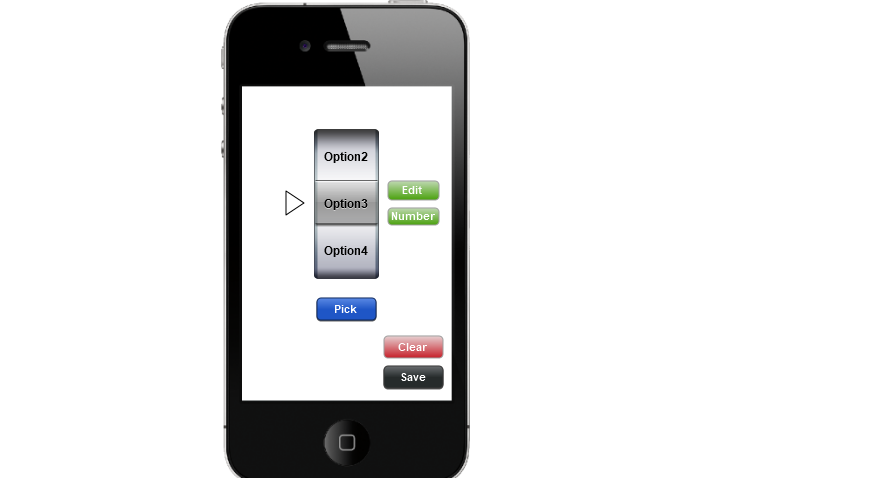
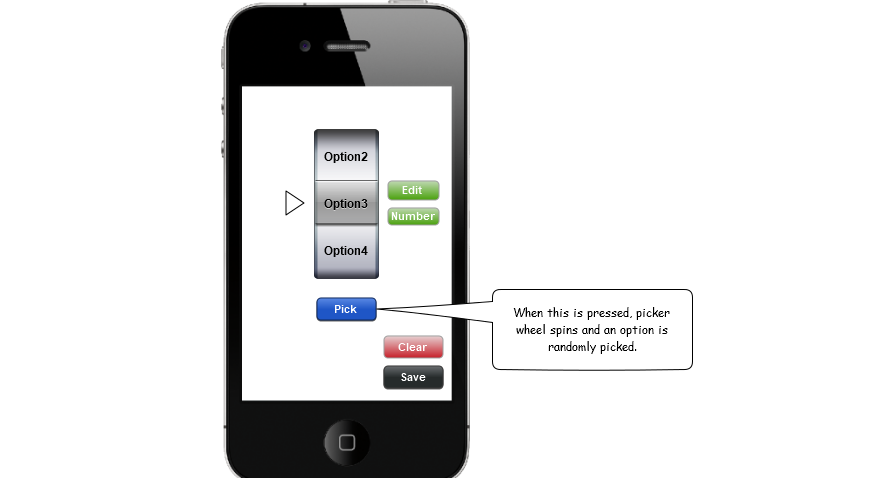
add mockup

Changed region(s): [[0.5863, 0.6444, 0.7714, 0.7322], [0.5554, 0.7615, 0.7714, 0.7908], [0.432, 0.6151, 0.5554, 0.6736]]

diff --git a/docs/index.html b/docs/index.html
@@ -1,1 +1,1 @@
-<html xmlns="http://www.w3.org/1999/xhtml"><head><meta http-equiv="Content-Type" content="text/html; charset=UTF-8" /><title>week1.ep</title><link rel="stylesheet" href="Resources/SampleStyle.css" /></head><body><h1 id="documentTitle">week1.ep</h1><p id="documentMetadata">Exported at: Sun May 24 2020 18:03:07 GMT+0800 (Malay Peninsula Standard Time)</p><div class="Page" id="home_page"><h2>home</h2><div class="ImageContainer"><img height="478" width="875" src="pages/home.png" usemap="#map_home" /></div><map name="map_home"><area shape="rect" coords="383.5,335.5,443.5,358.5" href="#clear_pressed_page" title="Go to page 'clear pressed'" /></map></div><div class="Page" id="clear_pressed_page"><h2>clear pressed</h2><div class="ImageContainer"><img height="478" width="875" src="pages/clear_pressed.png" usemap="#map_clear_pressed" /></div><map name="map_clear_pressed"></map></div></body></html>
+<html xmlns="http://www.w3.org/1999/xhtml"><head><meta http-equiv="Content-Type" content="text/html; charset=UTF-8" /><title>option_picker.ep</title><link rel="stylesheet" href="Resources/SampleStyle.css" /></head><body><h1 id="documentTitle">option_picker.ep</h1><p id="documentMetadata">Exported at: Sun May 24 2020 21:19:36 GMT+0800 (Malay Peninsula Standard Time)</p><div class="Page" id="home_page"><h2>Home</h2><div class="ImageContainer"><img height="478" width="875" src="pages/home.png" usemap="#map_home" /></div><map name="map_home"><area shape="rect" coords="383.5,365.5,443.5,389.5" href="#save_pressed_page" title="Go to page 'Save pressed'" /><area shape="rect" coords="387.5,207.5,439.5,225.5" href="#number_options_page" title="Go to page 'Number options'" /><area shape="rect" coords="387.5,180.5,439.5,200.5" href="#edit_options_page" title="Go to page 'Edit options'" /><area shape="rect" coords="383.5,335.5,443.5,358.5" href="#clear_pressed_page" title="Go to page 'Clear pressed'" /></map></div><div class="Page" id="clear_pressed_page"><h2>Clear pressed</h2><div class="ImageContainer"><img height="478" width="875" src="pages/clear_pressed.png" usemap="#map_clear_pressed" /></div><map name="map_clear_pressed"><area shape="rect" coords="383.5,365.5,443.5,389.5" href="#saved_pressed_blank_page" title="Go to page 'Saved pressed (blank)'" /><area shape="rect" coords="387.5,207.5,439.5,225.5" href="#number_options_page" title="Go to page 'Number options'" /><area shape="rect" coords="387.5,180.5,439.5,200.5" href="#edit_options_blank_page" title="Go to page 'Edit options (blank)'" /></map></div><div class="Page" id="save_pressed_page"><h2>Save pressed</h2><div class="ImageContainer"><img height="478" width="875" src="pages/save_pressed.png" usemap="#map_save_pressed" /></div><map name="map_save_pressed"><area shape="rect" coords="387.5,207.5,439.5,225.5" href="#number_options_page" title="Go to page 'Number options'" /><area shape="rect" coords="387.5,180.5,439.5,200.5" href="#edit_options_page" title="Go to page 'Edit options'" /><area shape="rect" coords="383.5,335.5,443.5,358.5" href="#clear_pressed_page" title="Go to page 'Clear pressed'" /></map></div><div class="Page" id="edit_options_page"><h2>Edit options</h2><div class="ImageContainer"><img height="478" width="875" src="pages/edit_options.png" usemap="#map_edit_options" /></div><map name="map_edit_options"><area shape="rect" coords="320.5,361.5,380.5,385.5" href="#home_page" title="Go to page 'Home'" /></map></div><div class="Page" id="number_options_page"><h2>Number options</h2><div class="ImageContainer"><img height="478" width="875" src="pages/number_options.png" usemap="#map_number_options" /></div><map name="map_number_options"><area shape="rect" coords="320.5,327.5,380.5,351.5" href="#home_num_page" title="Go to page 'Home (num)'" /></map></div><div class="Page" id="home_num_page"><h2>Home (num)</h2><div class="ImageContainer"><img height="478" width="875" src="pages/home_num.png" usemap="#map_home_num" /></div><map name="map_home_num"><area shape="rect" coords="383.5,365.5,443.5,389.5" href="#save_pressed_num_page" title="Go to page 'Save pressed (num)'" /><area shape="rect" coords="387.5,207.5,439.5,225.5" href="#number_options_page" title="Go to page 'Number options'" /><area shape="rect" coords="387.5,180.5,439.5,200.5" href="#edit_options_num_page" title="Go to page 'Edit options (num)'" /><area shape="rect" coords="383.5,335.5,443.5,358.5" href="#clear_pressed_page" title="Go to page 'Clear pressed'" /></map></div><div class="Page" id="edit_options_num_page"><h2>Edit options (num)</h2><div class="ImageContainer"><img height="478" width="875" src="pages/edit_options_num.png" usemap="#map_edit_options_num" /></div><map name="map_edit_options_num"><area shape="rect" coords="320.5,361.5,380.5,385.5" href="#home_num_page" title="Go to page 'Home (num)'" /></map></div><div class="Page" id="save_pressed_num_page"><h2>Save pressed (num)</h2><div class="ImageContainer"><img height="478" width="875" src="pages/save_pressed_num.png" usemap="#map_save_pressed_num" /></div><map name="map_save_pressed_num"><area shape="rect" coords="387.5,207.5,439.5,225.5" href="#number_options_page" title="Go to page 'Number options'" /><area shape="rect" coords="387.5,180.5,439.5,200.5" href="#edit_options_num_page" title="Go to page 'Edit options (num)'" /><area shape="rect" coords="383.5,335.5,443.5,358.5" href="#clear_pressed_page" title="Go to page 'Clear pressed'" /></map></div><div class="Page" id="edit_options_blank_page"><h2>Edit options (blank)</h2><div class="ImageContainer"><img height="478" width="875" src="pages/edit_options_blank.png" usemap="#map_edit_options_blank" /></div><map name="map_edit_options_blank"><area shape="rect" coords="320.5,361.5,380.5,385.5" href="#home_blank_page" title="Go to page 'Home (blank)'" /></map></div><div class="Page" id="saved_pressed_blank_page"><h2>Saved pressed (blank)</h2><div class="ImageContainer"><img height="478" width="875" src="pages/saved_pressed_blank.png" usemap="#map_saved_pressed_blank" /></div><map name="map_saved_pressed_blank"><area shape="rect" coords="387.5,207.5,439.5,225.5" href="#number_options_page" title="Go to page 'Number options'" /><area shape="rect" coords="387.5,180.5,439.5,200.5" href="#edit_options_blank_page" title="Go to page 'Edit options (blank)'" /><area shape="rect" coords="383.5,335.5,443.5,358.5" href="#clear_pressed_page" title="Go to page 'Clear pressed'" /></map></div><div class="Page" id="home_blank_page"><h2>Home (blank)</h2><div class="ImageContainer"><img height="478" width="875" src="pages/home_blank.png" usemap="#map_home_blank" /></div><map name="map_home_blank"><area shape="rect" coords="383.5,365.5,443.5,389.5" href="#saved_pressed_blank_page" title="Go to page 'Saved pressed (blank)'" /><area shape="rect" coords="387.5,207.5,439.5,225.5" href="#number_options_page" title="Go to page 'Number options'" /><area shape="rect" coords="387.5,180.5,439.5,200.5" href="#edit_options_blank_page" title="Go to page 'Edit options (blank)'" /><area shape="rect" coords="383.5,335.5,443.5,358.5" href="#clear_pressed_page" title="Go to page 'Clear pressed'" /></map></div></body></html>
